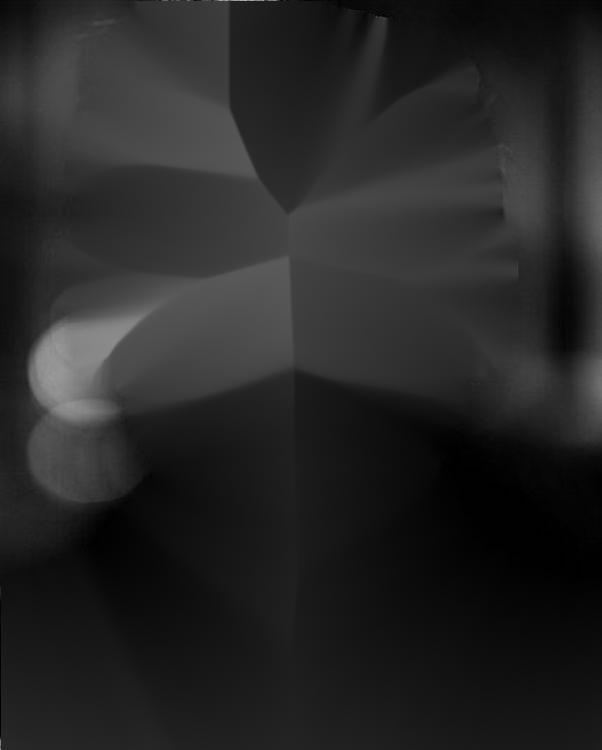
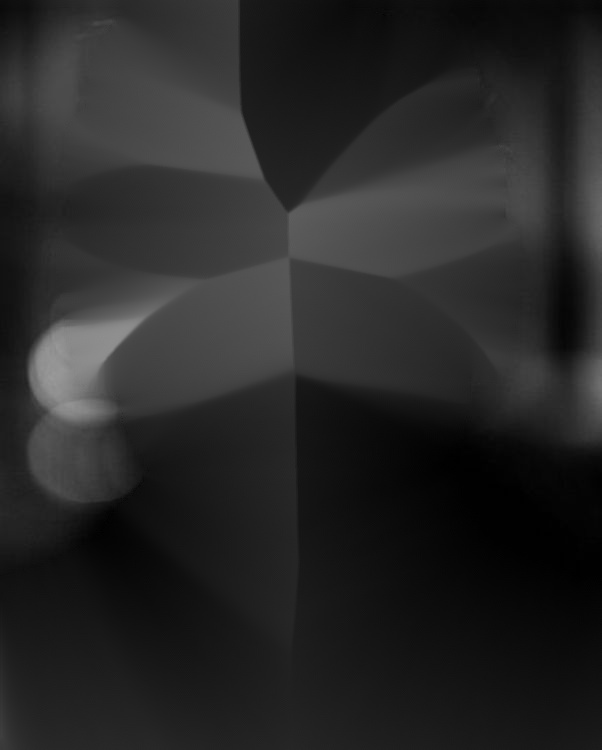
:bug: fix grayscale bugs

Changed region(s): [[0.3588, 0.0, 0.4485, 0.2453], [0.598, 0.0, 0.6578, 0.1227]]

diff --git a/src/StyleTransfer.py b/src/StyleTransfer.py
@@ -2,6 +2,7 @@ import numpy as np
 import dlib
 import cv2
 import skimage as sk
+import skimage.io as skio
 import scipy.spatial
 from Settings import *
 import Utils as Utils
@@ -31,8 +32,6 @@ class StyleTransfer():
         self.input_f = self.input.astype(np.float32) / 255.0
         self.example_f = self.example.astype(np.float32) / 255.0
 
-        self.input_channels = self.input_f.transpose(2, 0, 1)
-        self.example_channels = self.example_f.transpose(2, 0, 1)
         self.input_mask = Utils.read_image(input_file + MASK_SUFIX, color=cv2.IMREAD_GRAYSCALE, img_float=True)
         self.example_mask = Utils.read_image(example_file + MASK_SUFIX, color=cv2.IMREAD_GRAYSCALE, img_float=True)
 
@@ -51,13 +50,20 @@ class StyleTransfer():
         background = self.extract_background()
 
         if self.gray_img:
-            self.input = sk.color.rgb2gray(self.input_f)
-            self.example = sk.color.rgb2gray(self.example_f)
+            self.input = self.input_f
+            self.example = self.example_f
+            if (len(self.input_f.shape) > 2):
+                self.input = sk.color.rgb2gray(self.input_f)
+            if (len(self.example_f.shape) > 2):
+                self.example = sk.color.rgb2gray(self.example_f)
             
             gray = self.transfer_style(self.input, self.example)
-            gray = (sk.color.rgb2gray(background) * (1 - self.input_mask)) + (gray * self.input_mask)
+            bg = sk.color.rgb2gray(background) if len(background.shape) > 2 else background
+            gray = (bg * (1 - self.input_mask)) + (gray * self.input_mask)
             self.output = gray
         else:
+            self.input_channels = self.input_f.transpose(2, 0, 1)
+            self.example_channels = self.example_f.transpose(2, 0, 1)
             background_colors = background.transpose(2, 0, 1)
             channels = []
 

diff --git a/src/Utils.py b/src/Utils.py
@@ -21,7 +21,10 @@ def log(message):
 def get_facial_landmarks(detector, predictor, image):
     log("  Getting facial landmarks...")
     
-    gray = cv2.cvtColor(image, cv2.COLOR_BGR2GRAY)
+    gray = image
+    if len(image.shape) > 2:
+        gray = cv2.cvtColor(image, cv2.COLOR_BGR2GRAY)
+
     rects = detector(gray, 1)
     shape = None
 
@@ -33,7 +36,7 @@ def get_facial_landmarks(detector, predictor, image):
 
         for corner in corners:
             shape = np.vstack((shape, corner))
-
+    
     return shape
 
 def read_image(file, color=cv2.COLOR_BGR2RGB, img_float=False):

diff --git a/src/Settings.py b/src/Settings.py
@@ -11,5 +11,5 @@ BACKGROUND = '_background'
 ### Algorithm parameters
 STACKS_DEPTH = 6 # same as paper
 G_MULTIPLIER = 5 # different than paper
-MIN_GAIN = 0.9 # same as paper
-MAX_GAIN = 2.8 # same as paper
+MIN_GAIN = 1.2 # different than paper
+MAX_GAIN = 3.0 # different than paper
